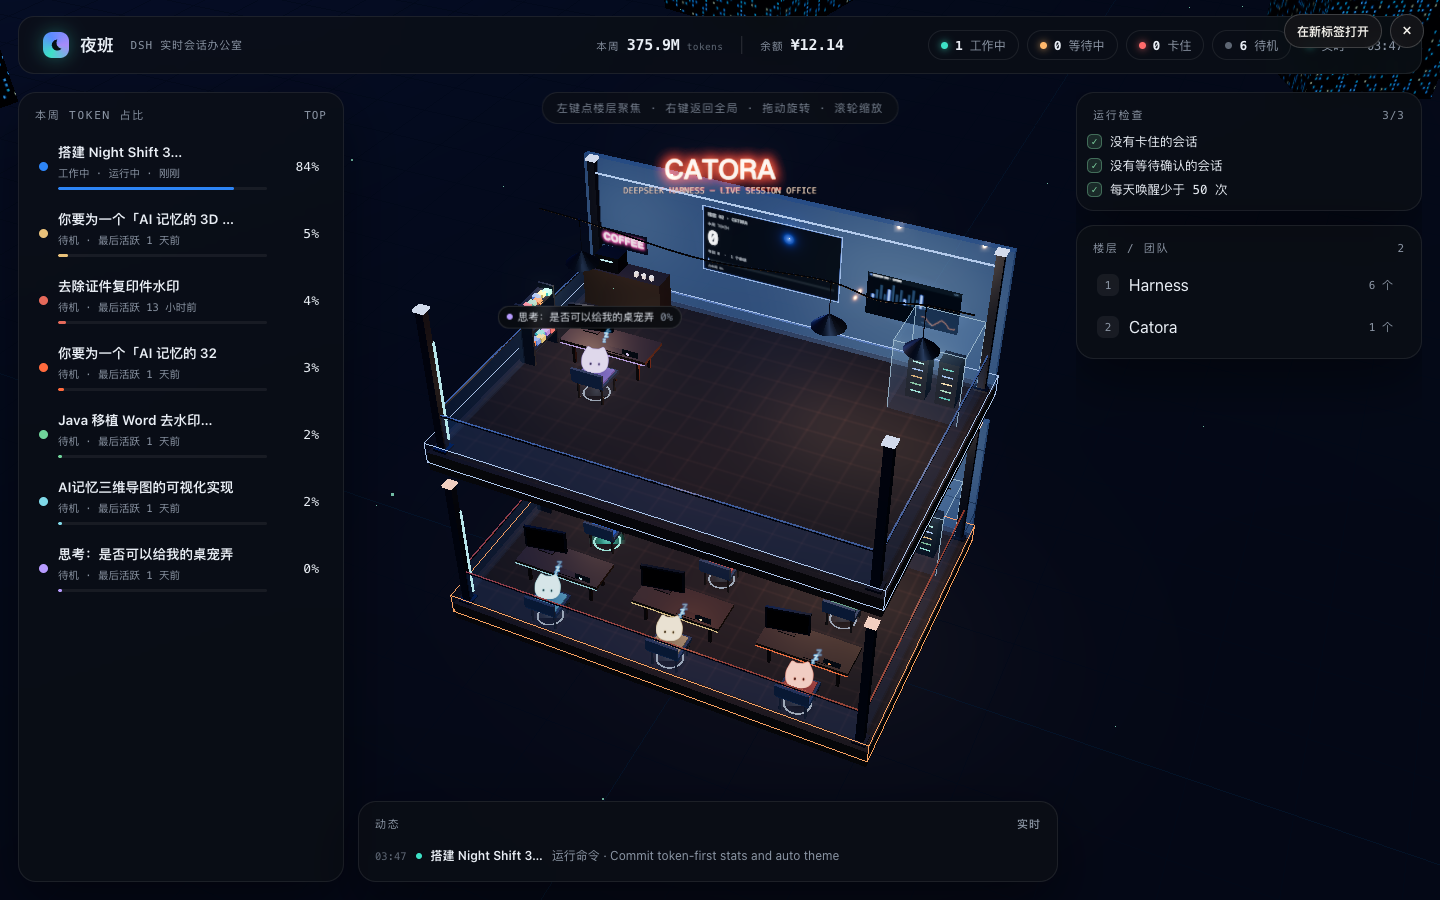
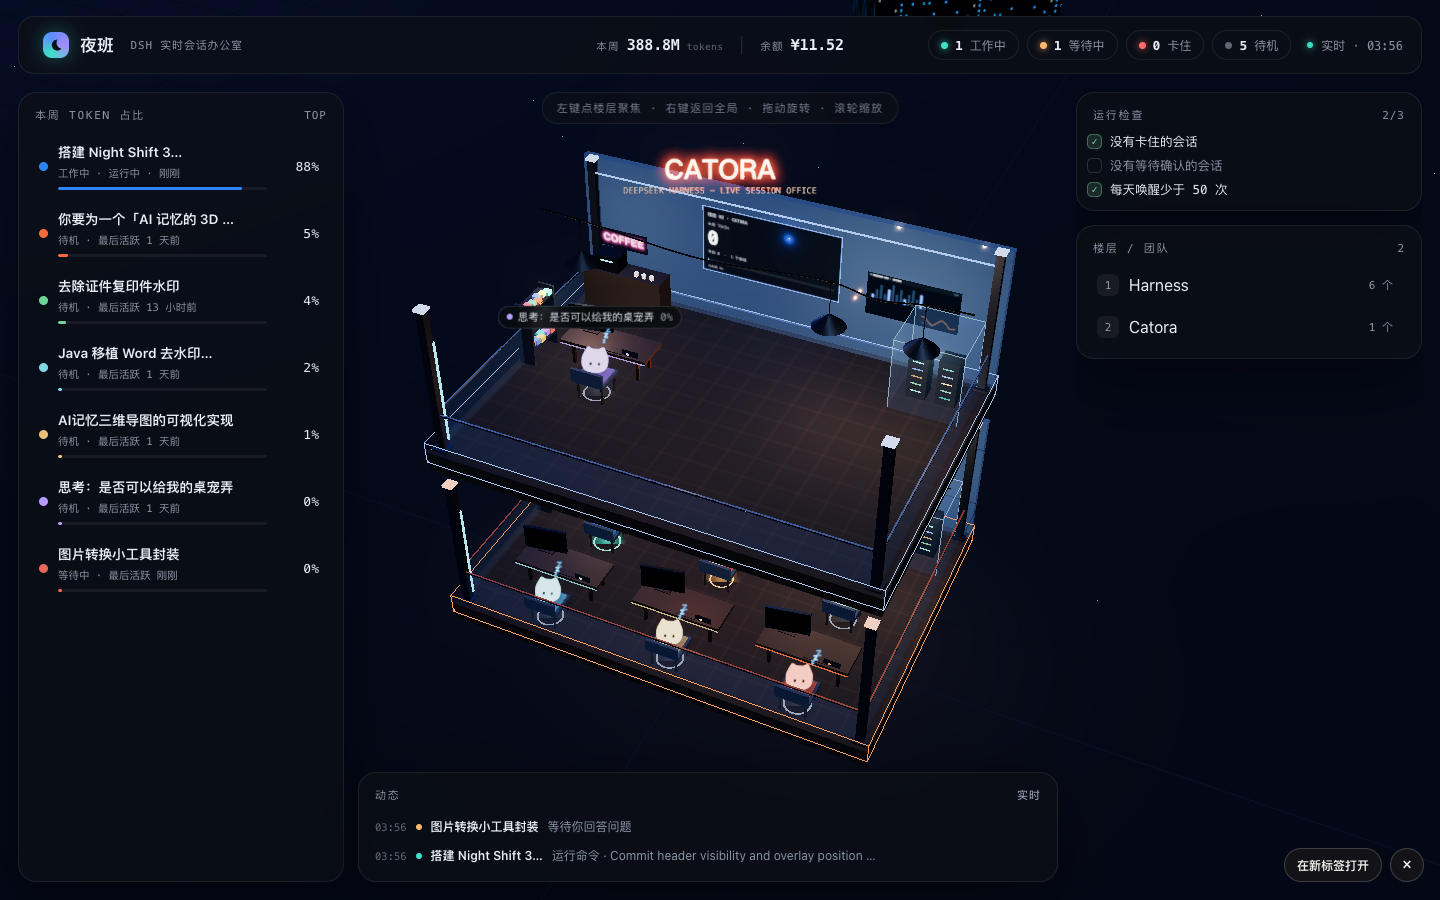
fix(hud): 确保 TOKEN 在中等宽度可见；插件悬浮按钮移到底部
- 统计区在 ≤1420 改为左对齐，TOKEN 统计保留到 1240 宽，不再提前隐藏
- 窄屏隐藏 TOKEN 时同步去掉余额前的空分隔线
- DSH 客户端的「在新标签打开 / 关闭」移到右下角，不再挡住面板头部时钟
- 版本 3.3.3

diff --git a/lib/client.js b/lib/client.js
@@ -131,9 +131,9 @@ window.__ModuleLoader__.load({
         .dsh-ns-overlay{position:fixed;z-index:1300;inset:0;background:#060607}
         .dsh-ns-overlay[hidden]{display:none}
         .dsh-ns-overlay iframe{display:block;width:100%;height:100%;border:0;background:#060607}
-        .dsh-ns-close{position:absolute;top:14px;right:16px;z-index:2;width:34px;height:34px;border-radius:50%;border:1px solid rgba(255,255,255,.18);background:rgba(20,20,23,.86);color:#f2f0ea;font-size:18px;line-height:1;cursor:pointer;backdrop-filter:blur(8px)}
+        .dsh-ns-close{position:absolute;top:auto;bottom:18px;right:16px;z-index:2;width:34px;height:34px;border-radius:50%;border:1px solid rgba(255,255,255,.18);background:rgba(20,20,23,.86);color:#f2f0ea;font-size:18px;line-height:1;cursor:pointer;backdrop-filter:blur(8px)}
         .dsh-ns-close:hover{background:rgba(40,40,45,.95)}
-        .dsh-ns-open{position:absolute;top:14px;right:58px;z-index:2;height:34px;padding:0 12px;border-radius:999px;border:1px solid rgba(255,255,255,.18);background:rgba(20,20,23,.86);color:#f2f0ea;font-size:12px;font-weight:600;cursor:pointer;backdrop-filter:blur(8px)}
+        .dsh-ns-open{position:absolute;top:auto;bottom:18px;right:58px;z-index:2;height:34px;padding:0 12px;border-radius:999px;border:1px solid rgba(255,255,255,.18);background:rgba(20,20,23,.86);color:#f2f0ea;font-size:12px;font-weight:600;cursor:pointer;backdrop-filter:blur(8px)}
         .dsh-ns-open:hover{background:rgba(40,40,45,.95)}
         html[data-fullscreen] .dsh-ns-pill{bottom:12px}
       `

diff --git a/lib/panel.html b/lib/panel.html
@@ -59,8 +59,15 @@
   .hstat + .hstat{border-left:1px solid var(--line-2);padding-left:18px}
   .hstat b{font-family:var(--mono);font-size:15px;font-weight:800;letter-spacing:-.2px;color:var(--ink);font-variant-numeric:tabular-nums}
   .hstat small{font-family:var(--mono);font-size:9.5px;color:var(--dim-2);letter-spacing:.4px}
-  @media (max-width:1340px){.hstat.tokens{display:none}}
-  @media (max-width:1180px){#headStats{display:none}}
+  @media (max-width:1420px){
+    #headStats{position:static;transform:none;margin-left:16px;gap:14px}
+    .hstat + .hstat{padding-left:14px}
+  }
+  @media (max-width:1240px){
+    .hstat.tokens{display:none}
+    .hstat + .hstat{border-left:0;padding-left:0}
+  }
+  @media (max-width:1050px){#headStats{display:none}}
   @keyframes breathe{0%,100%{opacity:.45}50%{opacity:1}}
 
   /* ---------- 面板通用 ---------- */

diff --git a/panel-src/index.html b/panel-src/index.html
@@ -59,8 +59,15 @@
   .hstat + .hstat{border-left:1px solid var(--line-2);padding-left:18px}
   .hstat b{font-family:var(--mono);font-size:15px;font-weight:800;letter-spacing:-.2px;color:var(--ink);font-variant-numeric:tabular-nums}
   .hstat small{font-family:var(--mono);font-size:9.5px;color:var(--dim-2);letter-spacing:.4px}
-  @media (max-width:1340px){.hstat.tokens{display:none}}
-  @media (max-width:1180px){#headStats{display:none}}
+  @media (max-width:1420px){
+    #headStats{position:static;transform:none;margin-left:16px;gap:14px}
+    .hstat + .hstat{padding-left:14px}
+  }
+  @media (max-width:1240px){
+    .hstat.tokens{display:none}
+    .hstat + .hstat{border-left:0;padding-left:0}
+  }
+  @media (max-width:1050px){#headStats{display:none}}
   @keyframes breathe{0%,100%{opacity:.45}50%{opacity:1}}
 
   /* ---------- 面板通用 ---------- */
